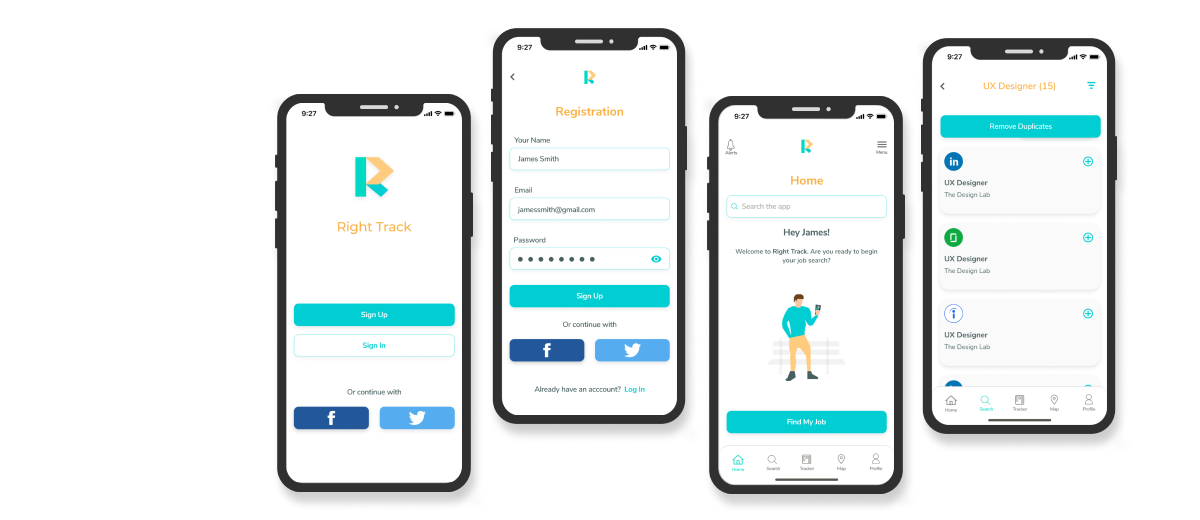
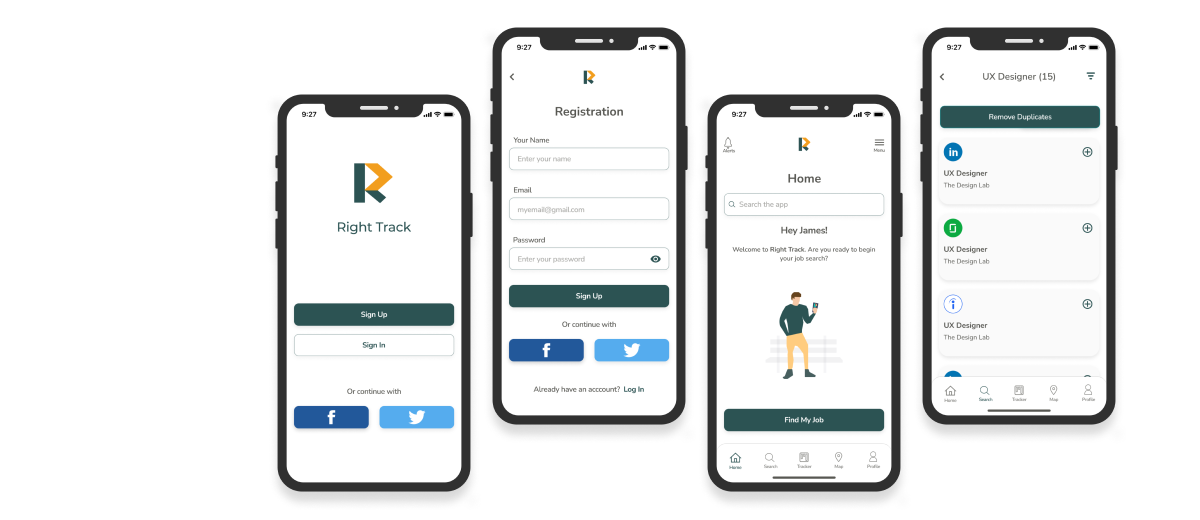
added new image right track

diff --git a/assets/css/style.css b/assets/css/style.css
@@ -224,7 +224,7 @@ section {
 
 .description {
     font-size: 2.5em;
-    color:#00CED2;
+    color:#27594D;
 
 }
 
